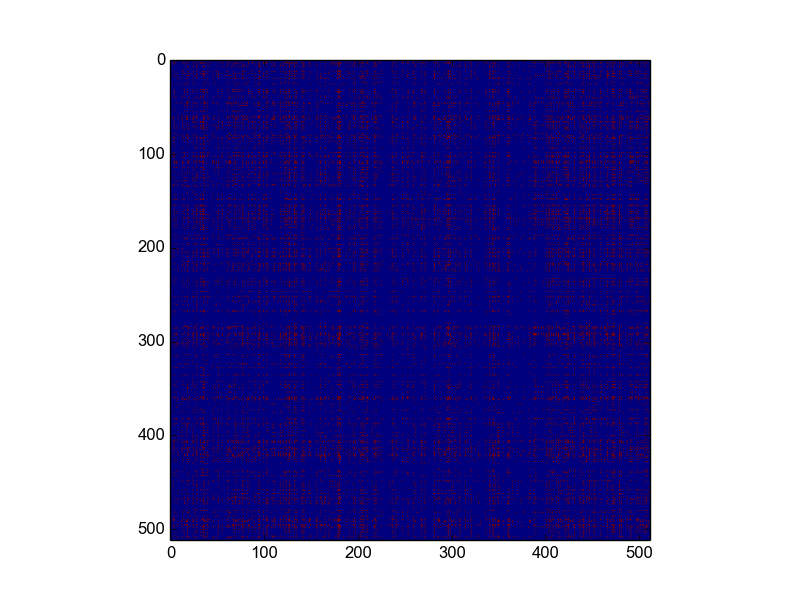
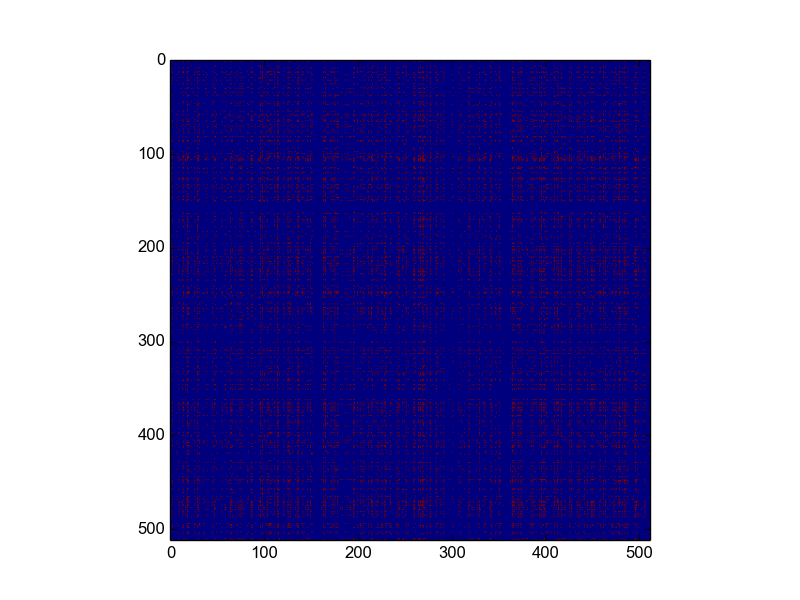
here we go

Changed region(s): [[0.2188, 0.09, 0.8125, 0.9]]

diff --git a/2_fractal.py b/2_fractal.py
@@ -9,6 +9,7 @@ import numba
 import operator
 import lz4
 import zlib
+import signal
 import sys
 import time
 
@@ -36,6 +37,12 @@ def julia_quadratic(fn=lambda x: x * x, c=complex(0, 0.65), size=512):
 
 def zlib_energy(arr):
     return len(zlib.compress(arr.tobytes(), 1))
+
+def lz4_energy(arr):
+    return len(lz4.dumps(arr.tobytes()))
+
+def gzip_energy(arr):
+    raise NotImplementedError()
 
 def energy(arr):
     """
@@ -106,15 +113,16 @@ def ga_unscramble(scrambled_frac, num_agents=10, breeding_agents=1, name="ga_uns
     i = 0
     try:
         while True:
-            print i
             i += 1
+            if i % 10 == 0:
+                print i
             swaps = [make_swaps(agents[0]) for x in xrange(num_agents)]
             agents = [perform_swap(agent, swap) for agent, swap in zip(agents, swaps)]
-            energies = np.array([zlib_energy(agent) for agent in agents])
+            energies = np.array([lz4_energy(agent) for agent in agents])
             agents = [agents[energies.argmax()]] * 10
     except KeyboardInterrupt:
         for x in xrange(num_agents):
-            print "printing ", x
+            sys.stderr.write(x)
             plt.close()
             plt.imshow(agents[x])
             plt.savefig("pics/" + name + "_" + str(x))
